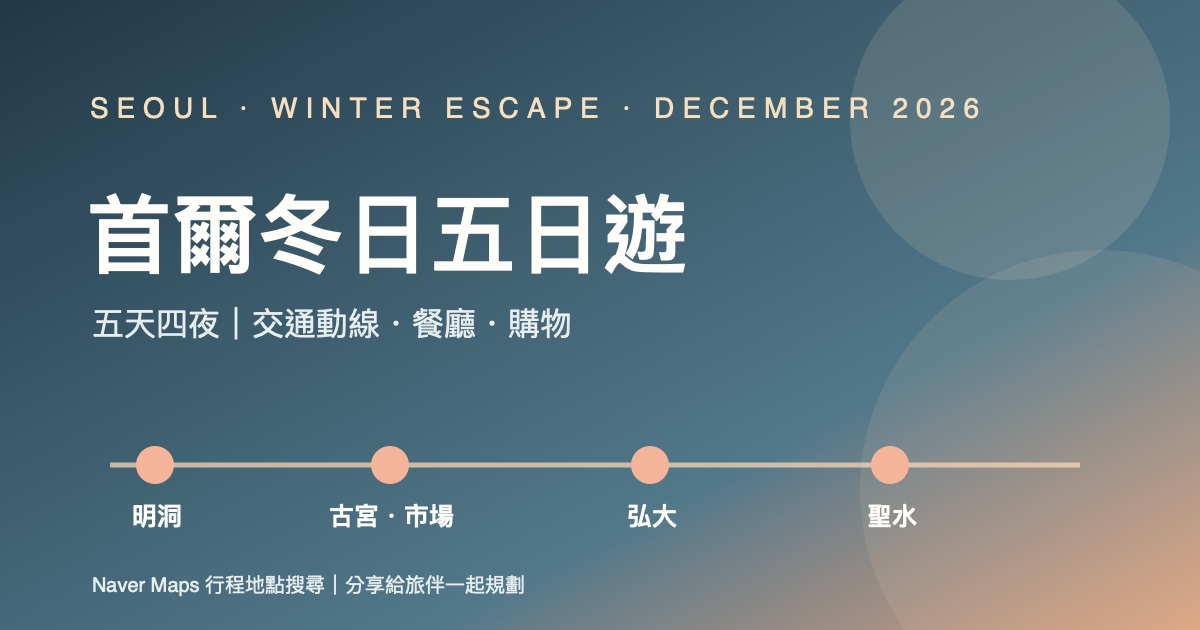
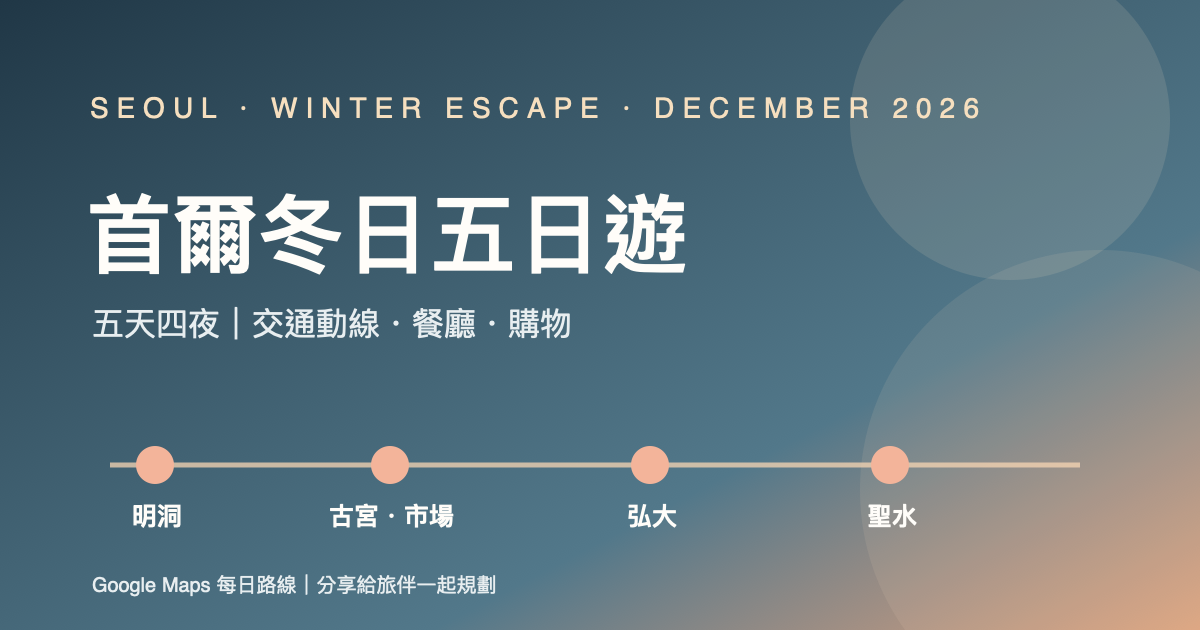
Switch itinerary maps to Google Maps

Changed region(s): [[0.0617, 0.9048, 0.4625, 0.9651]]

diff --git a/index.html b/index.html
@@ -9,48 +9,57 @@
 <meta property="og:image" content="https://houseyen.github.io/seoul-dec-2026-trip/social-card.png">
 <meta name="twitter:card" content="summary_large_image">
 <title>首爾冬日五日遊｜2026.12</title>
-<link rel="stylesheet" href="https://unpkg.com/leaflet@1.9.4/dist/leaflet.css" integrity="sha256-p4NxAoJBhIIN+hmNHrzRCf9tD/miZyoHS5obTRR9BMY=" crossorigin="">
+
 <style>
 :root{--ink:#202a33;--muted:#697681;--cream:#f7f4ee;--paper:#fffdf9;--coral:#d96852;--blue:#477b91;--line:#e8e2d9;--gold:#c79d56}*{box-sizing:border-box}body{margin:0;background:var(--cream);color:var(--ink);font-family:system-ui,-apple-system,"Noto Sans TC",sans-serif;line-height:1.65}a{color:var(--blue);text-underline-offset:3px}.hero{padding:64px 22px 48px;background:linear-gradient(135deg,#203746,#52788a 72%,#dba27e);color:white}.wrap{max-width:1000px;margin:auto}.eyebrow{letter-spacing:.16em;text-transform:uppercase;font-size:.78rem;opacity:.82}.hero h1{font-size:clamp(2.2rem,6vw,4.2rem);line-height:1.12;margin:.35em 0}.hero p{max-width:650px;color:#edf1f2}.pills{display:flex;gap:9px;flex-wrap:wrap;margin-top:24px}.pill{border:1px solid #ffffff62;border-radius:99px;padding:6px 13px;font-size:.9rem}.section{padding:36px 22px}.section h2{font-size:1.65rem;margin:0 0 7px}.lede{color:var(--muted);margin:0 0 20px}.map{background:var(--paper);border:1px solid var(--line);border-radius:18px;padding:22px;overflow:auto}.route{display:flex;align-items:center;gap:10px;min-width:700px;justify-content:space-between}.stop{background:#edf2f2;border-radius:14px;padding:13px 15px;text-align:center;font-weight:700;min-width:112px}.stop small{display:block;font-weight:400;color:var(--muted)}.arrow{color:var(--coral);font-size:1.25rem}.map-note{font-size:.88rem;color:var(--muted);margin:14px 0 0}.days{display:grid;gap:14px}.day{background:var(--paper);border:1px solid var(--line);border-radius:16px;padding:20px 22px;display:grid;grid-template-columns:110px 1fr;gap:20px}.dayno{color:var(--coral);font-weight:800;font-size:1.05rem}.day h3{margin:0 0 8px;font-size:1.2rem}.day p{margin:5px 0}.tag{font-size:.78rem;background:#f4ece0;border-radius:99px;padding:4px 9px;margin-right:5px;display:inline-block}.links{margin-top:10px}.links a{margin-right:14px}.cards{display:grid;grid-template-columns:repeat(auto-fit,minmax(230px,1fr));gap:13px}.card{background:var(--paper);border:1px solid var(--line);border-radius:15px;padding:17px}.card h3{margin:0 0 5px}.callout{border-left:4px solid var(--gold);background:#fff9ec;padding:14px 17px;border-radius:0 12px 12px 0}.footer{padding:24px 22px 40px;color:var(--muted);font-size:.88rem;border-top:1px solid var(--line)}.actions{display:flex;gap:10px;flex-wrap:wrap;margin-top:22px}.btn{color:white;background:#ffffff1c;border:1px solid #ffffff73;border-radius:99px;padding:9px 15px;text-decoration:none}.btn:hover{background:#ffffff32}@media(max-width:600px){.day{grid-template-columns:1fr;gap:5px}.hero{padding-top:45px}}
-.map-toolbar{display:flex;gap:8px;flex-wrap:wrap;margin:0 0 12px}.map-toolbar button{border:1px solid var(--line);background:var(--paper);color:var(--ink);padding:8px 13px;border-radius:999px;cursor:pointer;font:inherit}.map-toolbar button.active{background:var(--blue);border-color:var(--blue);color:white}.map-shell{background:var(--paper);border:1px solid var(--line);border-radius:18px;padding:12px;box-shadow:0 8px 26px #263c4610}#itinerary-map{height:460px;border-radius:12px;overflow:hidden}.map-legend{display:flex;flex-wrap:wrap;gap:12px;margin:10px 4px 2px;color:var(--muted);font-size:.85rem}.map-legend span{display:flex;align-items:center;gap:6px}.legend-dot{width:10px;height:10px;border-radius:50%;display:inline-block}.map-caption{font-size:.84rem;color:var(--muted);margin:11px 4px 3px}.leaflet-popup-content a{color:#477b91;font-weight:700}@media(max-width:600px){#itinerary-map{height:390px}}
+.map-toolbar{display:flex;gap:8px;flex-wrap:wrap;margin:0 0 12px}.map-toolbar button{border:1px solid var(--line);background:var(--paper);color:var(--ink);padding:8px 13px;border-radius:999px;cursor:pointer;font:inherit}.map-toolbar button.active{background:var(--blue);border-color:var(--blue);color:white}.map-shell{background:var(--paper);border:1px solid var(--line);border-radius:18px;padding:12px;box-shadow:0 8px 26px #263c4610}#google-map{display:block;width:100%;height:460px;border:0;border-radius:12px;background:#edf2f2}.map-open-link{margin:10px 4px 2px}.map-open-link a{font-weight:700}.map-caption{font-size:.84rem;color:var(--muted);margin:11px 4px 3px}@media(max-width:600px){#google-map{height:390px}}
 </style>
 </head>
 <body>
 <header class="hero"><div class="wrap"><div class="eyebrow">SEOUL · WINTER ESCAPE · DECEMBER 2026</div><h1>首爾冬日五日遊</h1><p>五天四夜，慢慢逛、好好吃。明洞落腳，串起古宮市場、弘大與聖水；冷了就鑽進咖啡店和商場暖身。</p><div class="pills"><span class="pill">5 天 4 夜</span><span class="pill">建議住明洞／乙支路</span><span class="pill">地鐵＋步行</span></div><div class="actions"><a class="btn" href="#route">看交通動線 ↓</a><a class="btn" href="#days">看每日行程 ↓</a><button class="btn" onclick="navigator.share?.({title:document.title,url:location.href})||navigator.clipboard.writeText(location.href).then(()=>alert('已複製分享網址'))">分享此行程</button></div></div></header>
 <section class="section wrap" id="route"><h2>交通動線圖</h2><p class="lede">以市區地鐵移動為主；機場往返可搭 AREX 至首爾站，再轉地鐵或計程車到住宿。</p><div class="map"><div class="route"><div class="stop">仁川機場<small>AREX 機場鐵路</small></div><span class="arrow">→</span><div class="stop">首爾站<small>轉乘／住宿接駁</small></div><span class="arrow">→</span><div class="stop">明洞<small>住宿・購物</small></div><span class="arrow">↔</span><div class="stop">鍾路・東大門<small>古宮・市場・夜逛</small></div></div><div class="route" style="margin-top:13px"><div class="stop">明洞／首爾站</div><span class="arrow">↔</span><div class="stop">弘大入口<small>潮流・延南洞</small></div><span class="arrow">↔</span><div class="stop">聖水<small>選物・咖啡・首爾林</small></div></div><p class="map-note">動線為行程示意，非比例地圖。<a href="https://english.seoul.go.kr/policy/transportation/modes-of-transport/subway-map-eng-2500/" target="_blank" rel="noopener">首爾市政府官方英文地鐵圖 ↗</a></p></div></section>
-<section class="section wrap" id="map-mode"><h2>互動地圖模式</h2><p class="lede">點選天數查看當日景點動線；點地圖標記可開啟該地點的 Naver Maps 搜尋。地圖底圖為 OpenStreetMap。</p><div class="map-toolbar" role="group" aria-label="選擇地圖行程日"><button class="active" data-day="2">DAY 2 古宮・市場</button><button data-day="1">DAY 1 抵達・明洞</button><button data-day="3">DAY 3 弘大・延南洞</button><button data-day="4">DAY 4 聖水・首爾林</button><button data-day="5">DAY 5 回程</button><button data-day="all">全部行程</button></div><div class="map-shell"><div id="itinerary-map" aria-label="首爾行程互動地圖"></div><div class="map-legend"><span><i class="legend-dot" style="background:#d96852"></i>DAY 1</span><span><i class="legend-dot" style="background:#477b91"></i>DAY 2</span><span><i class="legend-dot" style="background:#7a9d68"></i>DAY 3</span><span><i class="legend-dot" style="background:#9b73a8"></i>DAY 4</span><span><i class="legend-dot" style="background:#c79d56"></i>DAY 5</span></div></div><p class="map-caption">標記為景點／區域中心示意，實際店家入口請在 Naver Maps 確認；各段交通請在 Naver Maps 內規劃。</p></section>
+<section class="section wrap" id="map-mode"><h2>互動地圖模式</h2><p class="lede">按天數切換 Google 地圖路線；要查看大眾運輸與即時導航，可開啟 Google Maps。</p><div class="map-toolbar" role="group" aria-label="選擇地圖行程日"><button class="active" data-day="2">DAY 2 古宮・市場</button><button data-day="1">DAY 1 抵達・明洞</button><button data-day="3">DAY 3 弘大・延南洞</button><button data-day="4">DAY 4 聖水・首爾林</button><button data-day="5">DAY 5 回程</button><button data-day="all">全部行程</button></div><div class="map-shell"><iframe id="google-map" title="首爾行程 Google 地圖" loading="lazy" allowfullscreen referrerpolicy="no-referrer-when-downgrade"></iframe><p class="map-open-link"><a id="google-route-link" href="https://www.google.com/maps" target="_blank" rel="noopener">在 Google Maps 開啟當日路線 ↗</a></p></div><p class="map-caption">日行程預覽直接使用 Google Maps；各段大眾運輸與實際路線請在 Google Maps 內確認。</p></section>
 <section class="section wrap" id="days"><h2>每日行程</h2><p class="lede">每日以同區域步行串接，減少來回搭車。</p><div class="days">
-<article class="day"><div class="dayno">DAY 01<br>抵達・明洞</div><div><h3>入住後先熟悉市中心</h3><p>仁川機場 → AREX／首爾站 → 明洞住宿 → 明洞商圈輕鬆逛。</p><p><span class="tag">吃</span>明洞餃子：刀切麵、餃子；或明洞街頭小吃。</p><p><span class="tag">買</span>美妝、藥妝、百貨；第一天不排滿。</p><div class="links"><a href="https://map.naver.com/p/search/인천국제공항" target="_blank" rel="noopener">Naver Maps：仁川機場 ↗</a><a href="https://map.naver.com/p/search/명동" target="_blank" rel="noopener">Naver Maps：明洞 ↗</a><a href="https://english.visitseoul.net/restaurants/Myeongdong-Kyoja-EN/ENP008570" target="_blank" rel="noopener">明洞餃子資訊 ↗</a></div></div></article>
-<article class="day"><div class="dayno">DAY 02<br>古宮・市場</div><div><h3>景福宮 → 仁寺洞／益善洞 → 廣藏市場 → 東大門</h3><p><span class="tag">吃</span>廣藏市場：綠豆煎餅、麻藥飯捲、刀切麵。</p><p><span class="tag">買</span>仁寺洞文創小物；東大門服飾與商場。</p><div class="links"><a href="https://map.naver.com/p/search/경복궁" target="_blank" rel="noopener">Naver Maps：景福宮 ↗</a><a href="https://map.naver.com/p/search/광장시장" target="_blank" rel="noopener">廣藏市場 ↗</a><a href="https://map.naver.com/p/search/동대문" target="_blank" rel="noopener">東大門 ↗</a><a href="https://english.visitseoul.net/area/Gwangjang-Market/ENP000286" target="_blank" rel="noopener">廣藏市場官方資訊 ↗</a></div></div></article>
-<article class="day"><div class="dayno">DAY 03<br>弘大・延南洞</div><div><h3>潮流購物與咖啡散步</h3><p>弘大逛街 → 延南洞咖啡街、選物店 → 晚上回弘大。</p><p><span class="tag">吃</span>新美京弘大辣炒雞排，適合多人分享；排隊時可備選周邊餐廳。</p><p><span class="tag">買</span>潮流服飾、鞋店、文具與小店。</p><div class="links"><a href="https://map.naver.com/p/search/홍대입구역" target="_blank" rel="noopener">Naver Maps：弘大入口 ↗</a><a href="https://map.naver.com/p/search/연남동" target="_blank" rel="noopener">延南洞 ↗</a><a href="https://english.visitseoul.net/area/hongdaedak/ENP2flbke" target="_blank" rel="noopener">弘大辣炒雞排資訊 ↗</a></div></div></article>
-<article class="day"><div class="dayno">DAY 04<br>聖水・首爾林</div><div><h3>品牌店、咖啡廳與首爾林</h3><p>聖水洞品牌店、快閃店與咖啡廳 → 首爾林散步 → 回明洞整理戰利品。</p><p><span class="tag">吃</span>聖水洞找烤肉、湯飯或咖啡廳，出發前確認營業時間。</p><p><span class="tag">買</span>設計品牌、選物店、快閃店；喜歡潮流購物可多留時間。</p><div class="links"><a href="https://map.naver.com/p/search/성수동" target="_blank" rel="noopener">Naver Maps：聖水洞 ↗</a><a href="https://map.naver.com/p/search/서울숲" target="_blank" rel="noopener">首爾林 ↗</a></div></div></article>
-<article class="day"><div class="dayno">DAY 05<br>回程</div><div><h3>依航班時間安排</h3><p>退房 → 首爾站／機場；若航班較晚，可在首爾站或明洞補逛。</p><p><span class="tag">提醒</span>預留前往機場、報到與退稅時間，不建議排遠程景點。</p><div class="links"><a href="https://map.naver.com/p/search/서울역" target="_blank" rel="noopener">Naver Maps：首爾站 ↗</a><a href="https://map.naver.com/p/search/인천국제공항" target="_blank" rel="noopener">仁川機場 ↗</a></div></div></article>
+<article class="day"><div class="dayno">DAY 01<br>抵達・明洞</div><div><h3>入住後先熟悉市中心</h3><p>仁川機場 → AREX／首爾站 → 明洞住宿 → 明洞商圈輕鬆逛。</p><p><span class="tag">吃</span>明洞餃子：刀切麵、餃子；或明洞街頭小吃。</p><p><span class="tag">買</span>美妝、藥妝、百貨；第一天不排滿。</p><div class="links"><a href="https://www.google.com/maps/search/?api=1&query=인천국제공항" target="_blank" rel="noopener">Google Maps：仁川機場 ↗</a><a href="https://www.google.com/maps/search/?api=1&query=명동" target="_blank" rel="noopener">Google Maps：明洞 ↗</a><a href="https://english.visitseoul.net/restaurants/Myeongdong-Kyoja-EN/ENP008570" target="_blank" rel="noopener">明洞餃子資訊 ↗</a></div></div></article>
+<article class="day"><div class="dayno">DAY 02<br>古宮・市場</div><div><h3>景福宮 → 仁寺洞／益善洞 → 廣藏市場 → 東大門</h3><p><span class="tag">吃</span>廣藏市場：綠豆煎餅、麻藥飯捲、刀切麵。</p><p><span class="tag">買</span>仁寺洞文創小物；東大門服飾與商場。</p><div class="links"><a href="https://www.google.com/maps/search/?api=1&query=경복궁" target="_blank" rel="noopener">Google Maps：景福宮 ↗</a><a href="https://www.google.com/maps/search/?api=1&query=광장시장" target="_blank" rel="noopener">廣藏市場 ↗</a><a href="https://www.google.com/maps/search/?api=1&query=동대문" target="_blank" rel="noopener">東大門 ↗</a><a href="https://english.visitseoul.net/area/Gwangjang-Market/ENP000286" target="_blank" rel="noopener">廣藏市場官方資訊 ↗</a></div></div></article>
+<article class="day"><div class="dayno">DAY 03<br>弘大・延南洞</div><div><h3>潮流購物與咖啡散步</h3><p>弘大逛街 → 延南洞咖啡街、選物店 → 晚上回弘大。</p><p><span class="tag">吃</span>新美京弘大辣炒雞排，適合多人分享；排隊時可備選周邊餐廳。</p><p><span class="tag">買</span>潮流服飾、鞋店、文具與小店。</p><div class="links"><a href="https://www.google.com/maps/search/?api=1&query=홍대입구역" target="_blank" rel="noopener">Google Maps：弘大入口 ↗</a><a href="https://www.google.com/maps/search/?api=1&query=연남동" target="_blank" rel="noopener">延南洞 ↗</a><a href="https://english.visitseoul.net/area/hongdaedak/ENP2flbke" target="_blank" rel="noopener">弘大辣炒雞排資訊 ↗</a></div></div></article>
+<article class="day"><div class="dayno">DAY 04<br>聖水・首爾林</div><div><h3>品牌店、咖啡廳與首爾林</h3><p>聖水洞品牌店、快閃店與咖啡廳 → 首爾林散步 → 回明洞整理戰利品。</p><p><span class="tag">吃</span>聖水洞找烤肉、湯飯或咖啡廳，出發前確認營業時間。</p><p><span class="tag">買</span>設計品牌、選物店、快閃店；喜歡潮流購物可多留時間。</p><div class="links"><a href="https://www.google.com/maps/search/?api=1&query=성수동" target="_blank" rel="noopener">Google Maps：聖水洞 ↗</a><a href="https://www.google.com/maps/search/?api=1&query=서울숲" target="_blank" rel="noopener">首爾林 ↗</a></div></div></article>
+<article class="day"><div class="dayno">DAY 05<br>回程</div><div><h3>依航班時間安排</h3><p>退房 → 首爾站／機場；若航班較晚，可在首爾站或明洞補逛。</p><p><span class="tag">提醒</span>預留前往機場、報到與退稅時間，不建議排遠程景點。</p><div class="links"><a href="https://www.google.com/maps/search/?api=1&query=서울역" target="_blank" rel="noopener">Google Maps：首爾站 ↗</a><a href="https://www.google.com/maps/search/?api=1&query=인천국제공항" target="_blank" rel="noopener">仁川機場 ↗</a></div></div></article>
 </div></section>
 <section class="section wrap"><h2>餐廳口袋名單</h2><p class="lede">店家營業時間、休息日及候位情況請出發前再確認。</p><div class="cards"><div class="card"><h3>明洞餃子</h3><p>刀切麵、餃子；適合抵達日或逛明洞時補充熱食。</p><a href="https://english.visitseoul.net/restaurants/Myeongdong-Kyoja-EN/ENP008570" target="_blank" rel="noopener">官方旅遊指南 ↗</a></div><div class="card"><h3>廣藏市場</h3><p>綠豆煎餅、飯捲、麵食；一次嘗多樣小吃。</p><a href="https://english.visitseoul.net/area/Gwangjang-Market/ENP000286" target="_blank" rel="noopener">官方市場資訊 ↗</a></div><div class="card"><h3>新美京弘大辣炒雞排</h3><p>辣炒雞排，適合多人同行分享；可依口味調整辣度。</p><a href="https://english.visitseoul.net/area/hongdaedak/ENP2flbke" target="_blank" rel="noopener">官方旅遊指南 ↗</a></div></div></section>
 <section class="section wrap"><div class="callout"><strong>冬季小提醒：</strong>穿保暖外套、圍巾與防滑鞋；戶外行程排短一點，安排咖啡廳或商場暖身。若只有四天四夜，可把 DAY 04 聖水併入 DAY 03，白天聖水、晚上弘大。</div></section>
-<footer class="footer"><div class="wrap">整理者：豪斯的 Hermes Agent　｜　版本：v1.2　｜　建立日期：2026-10-10<br>行程草案，請按實際航班、住宿位置、店家營業資訊調整。地點連結會開啟 Naver Maps 搜尋；各站間搭乘方式請在地圖中查看。</div></footer>
-<script src="https://unpkg.com/leaflet@1.9.4/dist/leaflet.js" integrity="sha256-20nQCchB9co0qIjJZRGuk2/Z9VM+kNiyxNV1lvTlZBo=" crossorigin=""></script><script>
-const spots=[
- {day:1,name:'仁川國際機場',lat:37.4634593,lon:126.4417093,url:'인천국제공항'},
- {day:1,name:'首爾站',lat:37.5534363,lon:126.9697994,url:'서울역'},
- {day:1,name:'明洞',lat:37.5608977,lon:126.9863762,url:'명동'},
- {day:2,name:'景福宮',lat:37.5797540,lon:126.9766818,url:'경복궁'},
- {day:2,name:'仁寺洞',lat:37.5716543,lon:126.9864242,url:'인사동'},
- {day:2,name:'廣藏市場',lat:37.5697826,lon:127.0006548,url:'광장시장'},
- {day:2,name:'東大門',lat:37.5718616,lon:127.0114887,url:'동대문'},
- {day:3,name:'弘大入口',lat:37.5574135,lon:126.9237734,url:'홍대입구역'},
- {day:3,name:'延南洞',lat:37.5626596,lon:126.9226107,url:'연남동'},
- {day:4,name:'聖水站／聖水洞',lat:37.5453900,lon:127.0536200,url:'성수동'},
- {day:4,name:'首爾林',lat:37.5435916,lon:127.0447397,url:'서울숲'},
- {day:5,name:'首爾站',lat:37.5534363,lon:126.9697994,url:'서울역'},
- {day:5,name:'仁川國際機場',lat:37.4634593,lon:126.4417093,url:'인천국제공항'}
-];
-const colors={1:'#d96852',2:'#477b91',3:'#7a9d68',4:'#9b73a8',5:'#c79d56'};
-const map=L.map('itinerary-map',{scrollWheelZoom:false}).setView([37.5665,126.978],12);
-L.tileLayer('https://{s}.tile.openstreetmap.org/{z}/{x}/{y}.png',{maxZoom:19,attribution:'&copy; <a href="https://www.openstreetmap.org/copyright">OpenStreetMap</a> contributors'}).addTo(map);
-let layer=L.layerGroup().addTo(map);
-function showDay(day){layer.clearLayers();let chosen=day==='all'?spots:spots.filter(s=>s.day===Number(day));let groups={};chosen.forEach(s=>{groups[s.day]=groups[s.day]||[];groups[s.day].push(s);const marker=L.circleMarker([s.lat,s.lon],{radius:9,color:'#fff',weight:2,fillColor:colors[s.day],fillOpacity:1}).bindPopup(`<b>DAY ${s.day} · ${s.name}</b><br><a target="_blank" rel="noopener" href="https://map.naver.com/p/search/${encodeURIComponent(s.url)}">在 Naver Maps 開啟 ↗</a>`);marker.addTo(layer)});Object.keys(groups).forEach(d=>{const pts=groups[d].map(s=>[s.lat,s.lon]);if(pts.length>1)L.polyline(pts,{color:colors[d],weight:4,opacity:.75,dashArray:d==='1'||d==='5'?'8 8':null}).addTo(layer)});if(chosen.length){const bounds=L.latLngBounds(chosen.map(s=>[s.lat,s.lon]));map.fitBounds(bounds.pad(.18),{maxZoom:13})}}
-document.querySelectorAll('.map-toolbar button').forEach(button=>button.addEventListener('click',()=>{document.querySelectorAll('.map-toolbar button').forEach(b=>b.classList.remove('active'));button.classList.add('active');showDay(button.dataset.day)}));
+<footer class="footer"><div class="wrap">整理者：豪斯的 Hermes Agent　｜　版本：v1.3　｜　建立日期：2026-10-10<br>行程草案，請按實際航班、住宿位置、店家營業資訊調整。地點連結會開啟 Google Maps 搜尋；各站間搭乘方式請在地圖中查看。</div></footer>
+<script>
+const dayRoutes={
+ '1':['Incheon International Airport','Seoul Station','Myeongdong, Seoul'],
+ '2':['Gyeongbokgung Palace, Seoul','Insa-dong, Seoul','Gwangjang Market, Seoul','Dongdaemun, Seoul'],
+ '3':['Hongik University Station, Seoul','Yeonnam-dong, Seoul'],
+ '4':['Seongsu-dong, Seoul','Seoul Forest, Seoul'],
+ '5':['Seoul Station, Seoul','Incheon International Airport']
+};
+const googleMap=document.getElementById('google-map');
+const googleRouteLink=document.getElementById('google-route-link');
+function showDay(day){
+ if(day==='all'){
+  googleMap.src='https://www.google.com/maps?output=embed&q=Seoul%2C%20South%20Korea';
+  googleRouteLink.href='https://www.google.com/maps/search/?api=1&query=Seoul%2C%20South%20Korea';
+  googleRouteLink.textContent='在 Google Maps 開啟首爾景點總覽 ↗';
+  return;
+ }
+ const places=dayRoutes[day];
+ const origin=places[0], destination=places[places.length-1], waypoints=places.slice(1,-1);
+ const embedDestinations=places.slice(1).map(encodeURIComponent).join(' to:');
+ googleMap.src='https://www.google.com/maps?output=embed&saddr='+encodeURIComponent(origin)+'&daddr='+embedDestinations;
+ const params=new URLSearchParams({api:'1',origin,destination,travelmode:'transit'});
+ if(waypoints.length)params.set('waypoints',waypoints.join('|'));
+ googleRouteLink.href='https://www.google.com/maps/dir/?'+params.toString();
+ googleRouteLink.textContent='在 Google Maps 開啟 DAY '+day+' 大眾運輸路線 ↗';
+}
+document.querySelectorAll('.map-toolbar button').forEach(button=>button.addEventListener('click',()=>{
+ document.querySelectorAll('.map-toolbar button').forEach(b=>b.classList.remove('active'));
+ button.classList.add('active');
+ showDay(button.dataset.day);
+}));
 showDay('2');
 </script>
 </body></html>
